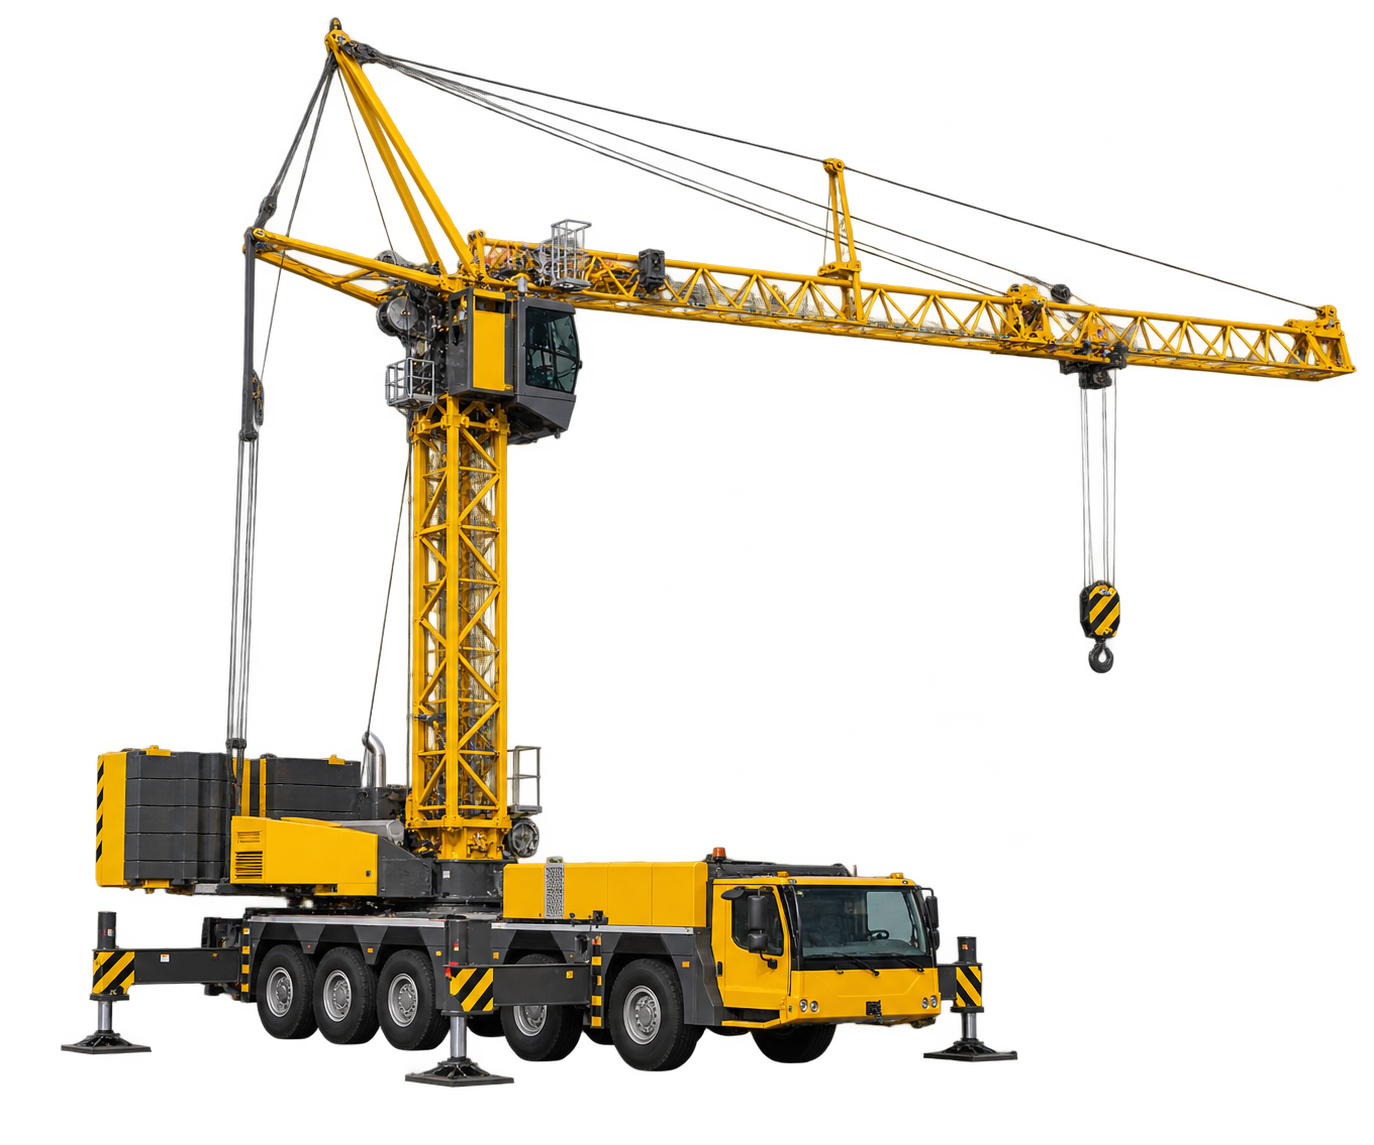
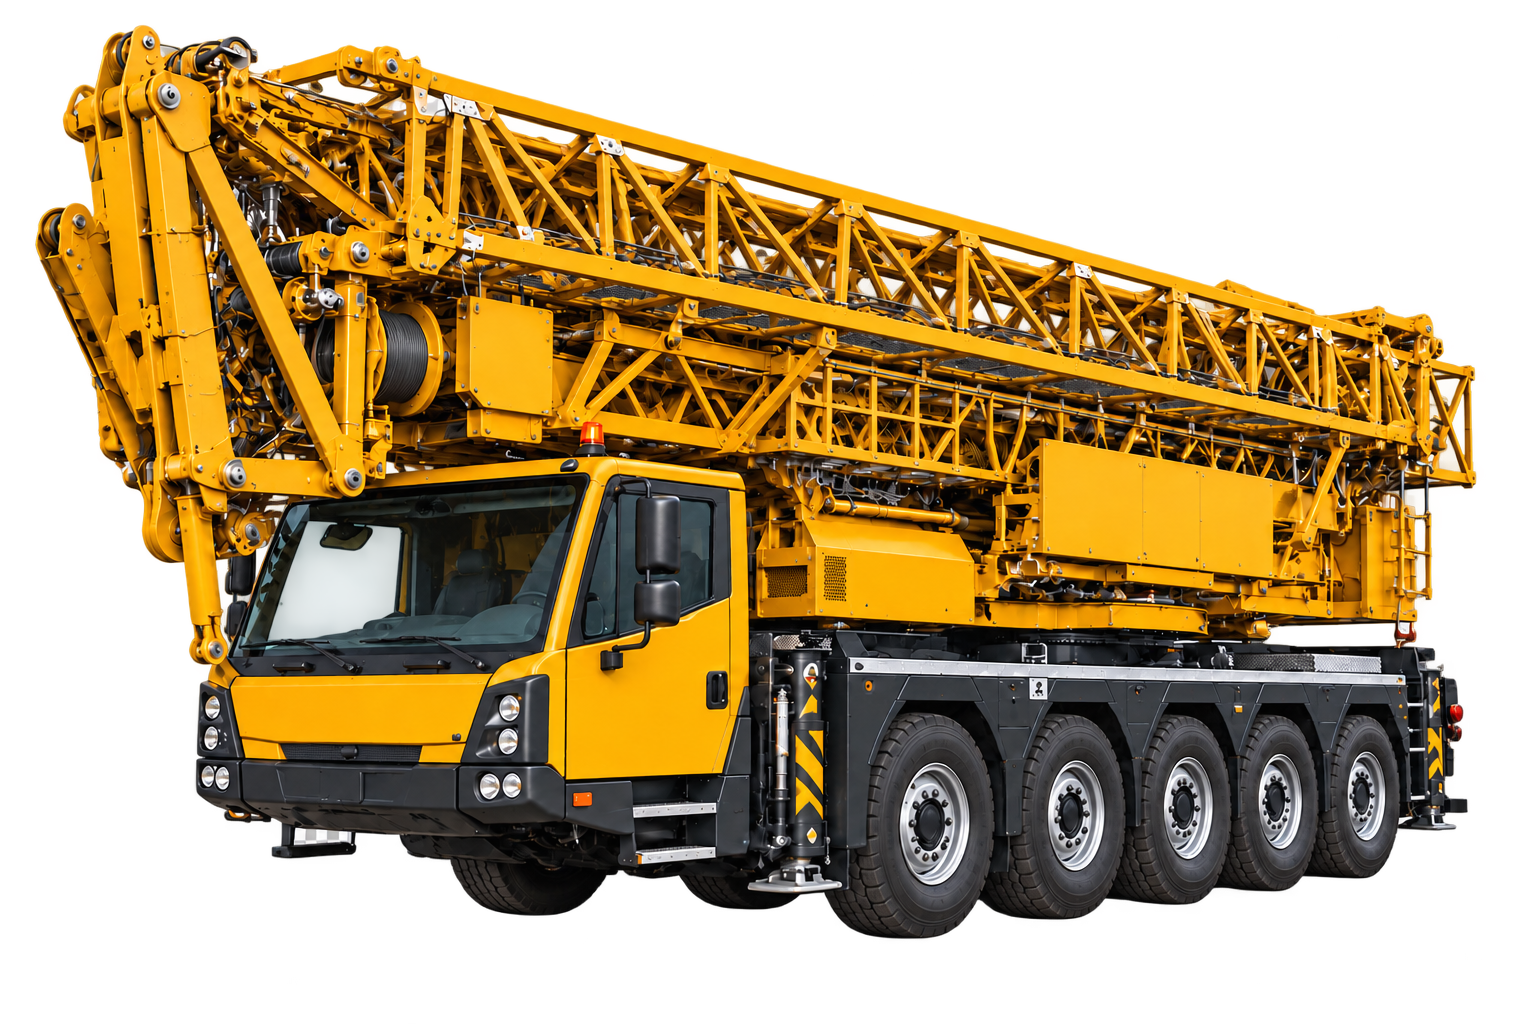
images, mobile

diff --git a/css/style.css b/css/style.css
@@ -1,1 +1,1 @@
-@font-face{font-family:"Inter";src:url("../fonts/Inter-Bold.woff2") format("woff2");font-weight:bold;font-style:normal;font-display:block}@font-face{font-family:"Inter";src:url("../fonts/Inter-Medium.woff2") format("woff2");font-weight:500;font-style:normal;font-display:block}@font-face{font-family:"Inter";src:url("../fonts/Inter-Regular.woff2") format("woff2");font-weight:normal;font-style:normal;font-display:block}:root{color-scheme:dark;--font-main: Inter, Arial, sans-serif;--c-accent: #FFC400;--c-white: #ffffff;--c-black: #1a1b1c;--c-text: #ffffff;--bg-item: #232526;--bg-main: #1a1b1c;--bg-dark: #061C2B;--bs-main: none;--bs-header: 0 0 164px 82px rgb(26, 27, 28)}html{box-sizing:border-box;font-size:16px;scroll-behavior:smooth}*,*::before,*::after{box-sizing:inherit}body{padding:0;color:var(--c-text);background-color:var(--bg-main);max-width:120em;margin:0 auto}*,input,textarea{box-sizing:border-box;font-family:var(--font-main)}.img{display:block;max-width:100%;height:auto}.container{max-width:90em;margin:0 auto;padding:0 .75em}.container--50{display:grid;grid-template-columns:1fr 1fr;gap:clamp(2rem,1.3182rem + 3.0303vw,4rem);align-items:center;align-content:center}.color-accent{color:var(--c-accent)}.bg-dark{background-color:var(--bg-dark);color:var(--c-white)}.form-label{position:absolute;width:1px;height:1px;padding:0;margin:-1px;overflow:hidden;clip:rect(0, 0, 0, 0);white-space:nowrap;border:0}.section-header{font-size:clamp(2rem,1.6591rem + 1.5152vw,3rem);font-weight:700;text-transform:uppercase;position:relative;padding-bottom:.5em;margin:0 0 1em;text-wrap:balance}.section-header:after{content:"";background-color:var(--c-accent);height:.375rem;width:4rem;position:absolute;bottom:0;left:0}.section-header--white{color:var(--c-white)}.section-spacing{padding:clamp(2rem,1.3182rem + 3.0303vw,4rem) 0}.anchor{position:relative;top:-7.125em}:root [data-theme=light]{display:block}:root [data-theme=dark]{display:none}@media(prefers-color-scheme: dark){:root:not([data-theme]) [data-theme=light]{display:none}:root:not([data-theme]) [data-theme=dark]{display:block}}:root[data-theme=light] [data-theme=light]{display:block}:root[data-theme=light] [data-theme=dark]{display:none}:root[data-theme=dark] [data-theme=light]{display:none}:root[data-theme=dark] [data-theme=dark]{display:block}.header{position:sticky;z-index:9;top:0;padding:.5em 0}.header:after{content:"";position:absolute;top:0;right:0;bottom:auto;left:0;box-shadow:var(--bs-header);z-index:1;pointer-events:none}.header__container{display:flex;align-content:center;align-items:center;container-type:inline-size;gap:clamp(1.5rem,.9886rem + 2.2727vw,3rem);position:relative;z-index:3}.header-logo{display:flex;align-items:center;align-content:center;gap:3em}.header-logo__img{max-width:300px}@media(max-width: 1023px){.header-logo__img{max-width:220px}}.header-logo__text{display:grid;gap:.25em;position:relative}@media(max-width: 1199px){.header-logo__text{display:none}}.header-logo__text span{color:var(--c-white);display:block;font-weight:500}.header-logo__text:before{content:"";left:-1.5em;top:0;bottom:0;width:1px;background-color:var(--c-white);position:absolute}.header__burger{display:flex;align-items:center;align-content:center;gap:clamp(1.5rem,.9886rem + 2.2727vw,3rem);margin-left:auto}@media(max-width: 1023px){.header__burger{display:none}}@media(max-width: 1023px){.header__burger.open{position:absolute;top:calc(100% + .5rem);right:0;width:min(20rem,100vw - 1.5rem);padding:1.25rem;display:grid;gap:1.25rem;background-color:var(--bg-dark);box-shadow:0 1rem 2rem rgba(0,0,0,.35)}}@media(max-width: 1023px){.header__burger.open .header-menu{display:grid;gap:1.25rem;order:2;text-align:right}}.header__burger-btn{position:relative;width:2rem;height:1.5rem;padding:0;margin-left:auto;border:0;background:rgba(0,0,0,0);cursor:pointer}@media(min-width: 1024px){.header__burger-btn{display:none}}.header__burger-btn span{position:absolute;left:0;width:100%;height:3px;border-radius:4px;background-color:var(--c-accent)}.header__burger-btn span:first-child{top:0}.header__burger-btn span:nth-child(2){top:0;bottom:0;margin:auto}.header__burger-btn span:last-child{bottom:0}.header-menu{display:flex;justify-self:flex-end;align-items:center;align-content:center;gap:clamp(1.5rem,.9886rem + 2.2727vw,3rem);padding:0;margin:0;list-style:none}.header-menu__item{font-weight:700}.header-menu__item a{color:var(--c-white);text-decoration:none}.header-menu__item--contact a{background-color:var(--c-accent);color:var(--c-black);display:inline-flex;white-space:nowrap;justify-content:center;align-content:center;align-items:center;padding:.45em 1em;border-radius:4px;font-weight:700;text-transform:uppercase}.header__language{position:relative;color:var(--c-white)}.header__language-active{display:flex;align-items:center;justify-content:center;gap:.4em;padding:0;border:0;color:inherit;background:rgba(0,0,0,0);font-size:1rem;font-weight:700;cursor:pointer}@media(max-width: 1023px){.header__language-active:before{content:attr(data-language);font-weight:500}}.header__language-active:after{content:"";width:.45em;height:.45em;border-right:2px solid currentColor;border-bottom:2px solid currentColor;transform:translateY(-0.15em) rotate(45deg)}@media(max-width: 1023px){.header__language-active{width:100%;justify-content:flex-end}}@media(max-width: 1023px){.header__language.open{position:static}}.header__language.open .header__language-active:after{transform:translateY(0.15em) rotate(225deg)}.header__language.open .header__languages{display:grid}.header__languages{position:absolute;top:calc(100% + .75rem);right:0;z-index:10;display:none;min-width:10rem;padding:.5rem 0;background-color:var(--bg-dark);box-shadow:0 1rem 2rem rgba(0,0,0,.35)}@media(max-width: 1023px){.header__languages{inset:0;min-width:0;align-content:start}}@media(max-width: 1023px){.header__languages:before{content:attr(data-back);padding:.75rem 1rem;color:var(--c-accent);font-weight:700;text-align:right;cursor:pointer}}.header__languages-item{position:relative;z-index:1;padding:.6rem 1.25rem;color:var(--c-white);text-decoration:none;text-align:right;white-space:nowrap}.header__languages-item:hover,.header__languages-item:focus-visible{color:var(--c-accent)}.header__languages-item.active{color:var(--c-accent);font-weight:700;text-decoration:underline;text-underline-offset:.2em}@media(max-width: 1023px){.header{background-color:var(--bg-dark);box-shadow:0 .5rem 1.5rem rgba(0,0,0,.25)}.header:after{display:none}.header__container{gap:1rem}}@media(max-width: 479px){.header-logo__img{max-width:175px}}.header__language,.header__burger-btn{color:var(--c-white)}.hero{margin-top:-6.125em;position:relative;background:linear-gradient(90deg, rgba(5, 28, 43, 0.9) 0%, rgba(5, 28, 43, 0.62) 64%, rgba(5, 28, 43, 0.28) 100%);height:47.5em}.hero__img{position:relative;z-index:-3;object-fit:cover;width:100%;height:100%}.hero__header{margin:0;padding:0;font-size:clamp(2.5rem,1.9034rem + 2.6515vw,4.25rem);text-transform:uppercase;font-weight:700}.hero__header span{display:block}.hero__description{font-size:clamp(1rem,.8295rem + .7576vw,1.5rem);max-width:25em;line-height:1.6em;margin:clamp(1.25rem,.9943rem + 1.1364vw,2rem) 0 clamp(1.25rem,.9091rem + 1.5152vw,2.25rem);padding:0}.hero__btn{text-decoration:none;background-color:var(--c-accent);color:var(--c-black);display:inline-flex;white-space:nowrap;justify-content:center;align-content:center;align-items:center;font-size:clamp(.875rem,.7898rem + .3788vw,1.125rem);padding:.75em 2em;border-radius:4px;gap:.75em;font-weight:700;text-transform:uppercase}.hero__btn svg{width:100%;flex-shrink:0;max-width:clamp(.875rem,.7898rem + .3788vw,1.125rem)}.hero__container{position:absolute;z-index:3;top:0;bottom:0;display:flex;flex-wrap:wrap;flex-direction:column;justify-content:center;align-items:flex-start;align-content:flex-start;left:0;right:0;margin:auto;color:var(--c-white)}.specialists__grid{display:grid;grid-template-columns:repeat(4, 1fr);gap:clamp(1rem,.6591rem + 1.5152vw,2rem)}.specialists__item{padding:clamp(1rem,.6591rem + 1.5152vw,2rem) clamp(1rem,.8295rem + .7576vw,1.5rem);background-color:var(--bg-item);text-align:center;box-shadow:var(--bs-main)}.specialists__item-image{aspect-ratio:280/170;display:flex;flex-wrap:wrap;justify-content:center;align-content:center;align-items:center}.specialists__item-img{max-width:100%;max-height:100%;width:auto;height:auto}.specialists__item-header{margin:1.5em 0 0;padding:0;font-size:clamp(1.125rem,.9972rem + .5682vw,1.5rem)}.about__img{border-radius:8px}.about__subheader{color:var(--c-white);font-size:clamp(1.25rem,.9943rem + 1.1364vw,2rem);margin:0 0 1em;font-weight:700;text-wrap:balance}.about__description{display:grid;font-size:clamp(.875rem,.7898rem + .3788vw,1.125rem);opacity:.75;line-height:1.55;gap:1em}.about__description p{margin:0;padding:0}.qualifications__container{display:grid;grid-template-columns:minmax(0, 47%) minmax(0, 53%)}.qualifications__grid{display:grid;grid-template-columns:repeat(3, minmax(0, 1fr));gap:2em 1em}.qualifications__description{font-size:clamp(1rem,.8722rem + .5682vw,1.375rem);line-height:1.45;margin-bottom:2em}.qualifications__left{position:relative;z-index:3}.qualifications__right{position:relative;z-index:1}.qualifications__img{height:110%;width:auto;position:absolute;right:0;top:-5%;max-width:115%}.qualifications__item{text-align:center}.qualifications__item svg{max-height:4em;width:auto;height:auto;margin:0 auto 1.5em;display:block;color:vaR(--c-accent)}.qualifications__item-title{font-size:clamp(1.125rem,.9972rem + .5682vw,1.5rem);font-weight:700;margin:0 auto 1em;text-wrap:balance}.qualifications__item-description{font-size:clamp(.875rem,.8324rem + .1894vw,1rem);text-wrap:balance;opacity:.7}.contact__form{display:flex;flex-wrap:wrap;gap:1.5em}.contact__form-description{font-size:12px;text-align:center;width:100%;opacity:.7}.contact__form-actions{display:flex;align-items:stretch;gap:1em;width:100%}@media(max-width: 767px){.contact__form-actions{flex-direction:column}}.contact__captcha{flex:0 0 304px;width:304px;min-height:78px}.contact__captcha.error>*{outline:2px solid #d93025}@media(max-width: 767px){.contact__captcha{flex-basis:auto;max-width:100%}}.contact__wrap{margin:.75em 0 1.75em}.contact input[type=text],.contact input[type=email],.contact input[type=tel]{width:100%;max-width:calc(50% - .75rem);font-size:1rem;padding:.875em 1em;background-color:rgba(0,0,0,0);color:var(--c-white);border:1px solid hsla(0,0%,100%,.7);border-radius:4px}.contact input[type=text]::placeholder,.contact input[type=email]::placeholder,.contact input[type=tel]::placeholder{opacity:1;color:var(--c-white)}.contact textarea{width:100%;font-size:1rem;padding:.875em 1em;background-color:rgba(0,0,0,0);color:var(--c-white);border:1px solid hsla(0,0%,100%,.7);border-radius:4px;min-height:10em}.contact textarea::placeholder{opacity:1;color:var(--c-white)}.contact button{width:calc(100% - 304px - 1em);min-height:78px;border:none;outline:none;box-shadow:none;font-size:clamp(1rem,.9574rem + .1894vw,1.125rem);font-weight:700;text-transform:uppercase;padding:1em;border-radius:8px;background-color:var(--c-accent);color:var(--c-black);cursor:pointer}@media(max-width: 767px){.contact button{width:100%}}.contact__right{height:100%}.contact__right img{border-radius:8px;width:100%;height:100%;object-fit:cover;object-position:right center}
+@font-face{font-family:"Inter";src:url("../fonts/Inter-Bold.woff2") format("woff2");font-weight:bold;font-style:normal;font-display:block}@font-face{font-family:"Inter";src:url("../fonts/Inter-Medium.woff2") format("woff2");font-weight:500;font-style:normal;font-display:block}@font-face{font-family:"Inter";src:url("../fonts/Inter-Regular.woff2") format("woff2");font-weight:normal;font-style:normal;font-display:block}:root{color-scheme:dark;--font-main: Inter, Arial, sans-serif;--c-accent: #FFC400;--c-white: #ffffff;--c-black: #1a1b1c;--c-text: #ffffff;--bg-item: #232526;--bg-main: #1a1b1c;--bg-dark: #061C2B;--bs-main: none;--bs-header: 0 0 164px 82px rgb(26, 27, 28)}html{box-sizing:border-box;font-size:16px;scroll-behavior:smooth}*,*::before,*::after{box-sizing:inherit}body{padding:0;color:var(--c-text);background-color:var(--bg-main);max-width:120em;margin:0 auto}*,input,textarea{box-sizing:border-box;font-family:var(--font-main)}.img{display:block;max-width:100%;height:auto}.container{max-width:90em;margin:0 auto;padding:0 .75em}.container--50{display:grid;grid-template-columns:1fr 1fr;gap:clamp(2rem,1.3182rem + 3.0303vw,4rem);align-items:center;align-content:center}.color-accent{color:var(--c-accent)}.bg-dark{background-color:var(--bg-dark);color:var(--c-white)}.form-label{position:absolute;width:1px;height:1px;padding:0;margin:-1px;overflow:hidden;clip:rect(0, 0, 0, 0);white-space:nowrap;border:0}.section-header{font-size:clamp(2rem,1.6591rem + 1.5152vw,3rem);font-weight:700;text-transform:uppercase;position:relative;padding-bottom:.5em;margin:0 0 1em;text-wrap:balance}.section-header:after{content:"";background-color:var(--c-accent);height:.375rem;width:4rem;position:absolute;bottom:0;left:0}.section-header--white{color:var(--c-white)}.section-spacing{padding:clamp(2rem,1.3182rem + 3.0303vw,4rem) 0}.anchor{position:relative;top:-7.125em}:root [data-theme=light]{display:block}:root [data-theme=dark]{display:none}@media(prefers-color-scheme: dark){:root:not([data-theme]) [data-theme=light]{display:none}:root:not([data-theme]) [data-theme=dark]{display:block}}:root[data-theme=light] [data-theme=light]{display:block}:root[data-theme=light] [data-theme=dark]{display:none}:root[data-theme=dark] [data-theme=light]{display:none}:root[data-theme=dark] [data-theme=dark]{display:block}.header{position:sticky;z-index:9;top:0;padding:.5em 0}.header:after{content:"";position:absolute;top:0;right:0;bottom:auto;left:0;box-shadow:var(--bs-header);z-index:1;pointer-events:none}.header__container{display:flex;align-content:center;align-items:center;container-type:inline-size;gap:clamp(1.5rem,.9886rem + 2.2727vw,3rem);position:relative;z-index:3}.header-logo{display:flex;align-items:center;align-content:center;gap:3em}.header-logo__img{max-width:300px}@media(max-width: 1024px){.header-logo__img{max-width:220px}}.header-logo__text{display:grid;gap:.25em;position:relative}@media(max-width: 1279px){.header-logo__text{display:none}}.header-logo__text span{color:var(--c-white);display:block;font-weight:500}.header-logo__text:before{content:"";left:-1.5em;top:0;bottom:0;width:1px;background-color:var(--c-white);position:absolute}.header__burger{display:flex;align-items:center;align-content:center;gap:clamp(1.5rem,.9886rem + 2.2727vw,3rem);margin-left:auto}@media(max-width: 1023px){.header__burger{display:none}}@media(max-width: 1023px){.header__burger.open{position:absolute;top:calc(100% + .5rem);right:0;width:min(20rem,100vw - 1.5rem);padding:1.25rem;display:grid;gap:1.25rem;background-color:var(--bg-dark);box-shadow:0 1rem 2rem rgba(0,0,0,.35)}}@media(max-width: 1023px){.header__burger.open .header-menu{display:grid;gap:1.25rem;order:2;text-align:right}}.header__burger-btn{position:relative;width:2rem;height:1.5rem;padding:0;margin-left:auto;border:0;background:rgba(0,0,0,0);cursor:pointer}@media(min-width: 1024px){.header__burger-btn{display:none}}.header__burger-btn span{position:absolute;left:0;width:100%;height:3px;border-radius:4px;background-color:var(--c-accent)}.header__burger-btn span:first-child{top:0}.header__burger-btn span:nth-child(2){top:0;bottom:0;margin:auto}.header__burger-btn span:last-child{bottom:0}.header-menu{display:flex;justify-self:flex-end;align-items:center;align-content:center;gap:clamp(1.5rem,.9886rem + 2.2727vw,3rem);padding:0;margin:0;list-style:none}.header-menu__item{font-weight:700}.header-menu__item a{color:var(--c-white);text-decoration:none}.header-menu__item--contact a{background-color:var(--c-accent);color:var(--c-black);display:inline-flex;white-space:nowrap;justify-content:center;align-content:center;align-items:center;padding:.45em 1em;border-radius:4px;font-weight:700;text-transform:uppercase}.header__language{position:relative;color:var(--c-white)}.header__language-active{display:flex;align-items:center;justify-content:center;gap:.4em;padding:0;border:0;color:inherit;background:rgba(0,0,0,0);font-size:1rem;font-weight:700;cursor:pointer}@media(max-width: 1023px){.header__language-active:before{content:attr(data-language);font-weight:500}}.header__language-active:after{content:"";width:.45em;height:.45em;border-right:2px solid currentColor;border-bottom:2px solid currentColor;transform:translateY(-0.15em) rotate(45deg)}@media(max-width: 1023px){.header__language-active{width:100%;justify-content:flex-end}}@media(max-width: 1023px){.header__language.open{position:static}}.header__language.open .header__language-active:after{transform:translateY(0.15em) rotate(225deg)}.header__language.open .header__languages{display:grid}.header__languages{position:absolute;top:calc(100% + .75rem);right:0;z-index:10;display:none;min-width:10rem;padding:.5rem 0;background-color:var(--bg-dark);box-shadow:0 1rem 2rem rgba(0,0,0,.35)}@media(max-width: 1023px){.header__languages{inset:0;min-width:0;align-content:start}}@media(max-width: 1023px){.header__languages:before{content:attr(data-back);padding:.75rem 1rem;color:var(--c-accent);font-weight:700;text-align:right;cursor:pointer}}.header__languages-item{position:relative;z-index:1;padding:.6rem 1.25rem;color:var(--c-white);text-decoration:none;text-align:right;white-space:nowrap}.header__languages-item:hover,.header__languages-item:focus-visible{color:var(--c-accent)}.header__languages-item.active{color:var(--c-accent);font-weight:700;text-decoration:underline;text-underline-offset:.2em}@media(max-width: 1023px){.header{background-color:var(--bg-dark);box-shadow:0 .5rem 1.5rem rgba(0,0,0,.25)}.header:after{display:none}.header__container{gap:1rem}}@media(max-width: 479px){.header-logo__img{max-width:175px}}.header__language,.header__burger-btn{color:var(--c-white)}.hero{position:relative;background:linear-gradient(90deg, rgba(5, 28, 43, 0.9) 0%, rgba(5, 28, 43, 0.62) 64%, rgba(5, 28, 43, 0.28) 100%);height:47.5em}@media(min-width: 1025px){.hero{margin-top:-6.125em}}.hero__img{position:relative;z-index:-3;object-fit:cover;width:100%;height:100%}.hero__header{margin:0;padding:0;font-size:clamp(2.5rem,1.9034rem + 2.6515vw,4.25rem);text-transform:uppercase;font-weight:700}.hero__header span{display:block}.hero__description{font-size:clamp(1rem,.8295rem + .7576vw,1.5rem);max-width:25em;line-height:1.6em;margin:clamp(1.25rem,.9943rem + 1.1364vw,2rem) 0 clamp(1.25rem,.9091rem + 1.5152vw,2.25rem);padding:0}.hero__btn{text-decoration:none;background-color:var(--c-accent);color:var(--c-black);display:inline-flex;white-space:nowrap;justify-content:center;align-content:center;align-items:center;font-size:clamp(.875rem,.7898rem + .3788vw,1.125rem);padding:.75em 2em;border-radius:4px;gap:.75em;font-weight:700;text-transform:uppercase}.hero__btn svg{width:100%;flex-shrink:0;max-width:clamp(.875rem,.7898rem + .3788vw,1.125rem)}.hero__container{position:absolute;z-index:3;top:0;bottom:0;display:flex;flex-wrap:wrap;flex-direction:column;justify-content:center;align-items:flex-start;align-content:flex-start;left:0;right:0;margin:auto;color:var(--c-white)}.specialists__grid{display:grid;grid-template-columns:repeat(4, 1fr);gap:clamp(1rem,.6591rem + 1.5152vw,2rem)}.specialists__item{padding:clamp(1rem,.6591rem + 1.5152vw,2rem) clamp(1rem,.8295rem + .7576vw,1.5rem);background-color:var(--bg-item);text-align:center;box-shadow:var(--bs-main)}.specialists__item-image{aspect-ratio:280/170;display:flex;flex-wrap:wrap;justify-content:center;align-content:center;align-items:center}.specialists__item-img{max-width:100%;max-height:100%;width:auto;height:auto}.specialists__item-header{margin:1.5em 0 0;padding:0;font-size:clamp(1.125rem,.9972rem + .5682vw,1.5rem)}.about__img{border-radius:8px}.about__subheader{color:var(--c-white);font-size:clamp(1.25rem,.9943rem + 1.1364vw,2rem);margin:0 0 1em;font-weight:700;text-wrap:balance}.about__description{display:grid;font-size:clamp(.875rem,.7898rem + .3788vw,1.125rem);opacity:.75;line-height:1.55;gap:1em}.about__description p{margin:0;padding:0}.qualifications__container{display:grid;grid-template-columns:minmax(0, 47%) minmax(0, 53%)}.qualifications__grid{display:grid;grid-template-columns:repeat(3, minmax(0, 1fr));gap:2em 1em}.qualifications__description{font-size:clamp(1rem,.8722rem + .5682vw,1.375rem);line-height:1.45;margin-bottom:2em}.qualifications__left{position:relative;z-index:3}.qualifications__right{position:relative;z-index:1}.qualifications__img{height:110%;width:auto;position:absolute;right:0;top:-5%;max-width:115%}.qualifications__item{text-align:center}.qualifications__item svg{max-height:4em;width:auto;height:auto;margin:0 auto 1.5em;display:block;color:vaR(--c-accent)}.qualifications__item-title{font-size:clamp(1.125rem,.9972rem + .5682vw,1.5rem);font-weight:700;margin:0 auto 1em;text-wrap:balance}.qualifications__item-description{font-size:clamp(.875rem,.8324rem + .1894vw,1rem);text-wrap:balance;opacity:.7}.contact__form{display:flex;flex-wrap:wrap;gap:1.5em}.contact__form-description{font-size:12px;text-align:center;width:100%;opacity:.7}.contact__form-actions{display:flex;align-items:stretch;gap:1em;width:100%}@media(max-width: 767px){.contact__form-actions{flex-direction:column}}.contact__captcha{flex:0 0 304px;width:304px;min-height:78px}.contact__captcha.error>*{outline:2px solid #d93025}@media(max-width: 767px){.contact__captcha{flex-basis:auto;max-width:100%}}.contact__wrap{margin:.75em 0 1.75em}.contact input[type=text],.contact input[type=email],.contact input[type=tel]{width:100%;max-width:calc(50% - .75rem);font-size:1rem;padding:.875em 1em;background-color:rgba(0,0,0,0);color:var(--c-white);border:1px solid hsla(0,0%,100%,.7);border-radius:4px}.contact input[type=text]::placeholder,.contact input[type=email]::placeholder,.contact input[type=tel]::placeholder{opacity:1;color:var(--c-white)}.contact textarea{width:100%;font-size:1rem;padding:.875em 1em;background-color:rgba(0,0,0,0);color:var(--c-white);border:1px solid hsla(0,0%,100%,.7);border-radius:4px;min-height:10em}.contact textarea::placeholder{opacity:1;color:var(--c-white)}.contact button{width:calc(100% - 304px - 1em);min-height:78px;border:none;outline:none;box-shadow:none;font-size:clamp(1rem,.9574rem + .1894vw,1.125rem);font-weight:700;text-transform:uppercase;padding:1em;border-radius:8px;background-color:var(--c-accent);color:var(--c-black);cursor:pointer}@media(max-width: 767px){.contact button{width:100%}}.contact__right{height:100%}.contact__right img{border-radius:8px;width:100%;height:100%;object-fit:cover;object-position:right center}

diff --git a/scss/layout/_header.scss b/scss/layout/_header.scss
@@ -30,7 +30,7 @@
         gap: 3em;
         &__img {
             max-width: 300px;
-            @media(max-width: 1023px) {
+            @media(max-width: 1024px) {
                 max-width: 220px;
             }
         }
@@ -38,7 +38,7 @@
             display: grid;
             gap: 0.25em;
             position: relative;
-            @media(max-width: 1199px) {
+            @media(max-width: 1279px) {
                 display: none;
             }
             span {

diff --git a/scss/components/_hero.scss b/scss/components/_hero.scss
@@ -1,8 +1,10 @@
 .hero {
-    margin-top: -6.125em;
     position: relative;
     background: linear-gradient(90deg, rgba(5, 28, 43, 0.90) 0%, rgba(5, 28, 43, 0.62) 64%, rgba(5, 28, 43, 0.28) 100%);
     height: 47.5em;
+    @media(min-width: 1025px) {
+        margin-top: -6.125em;
+    }
     &__img {
         position: relative;
         z-index: -3;
